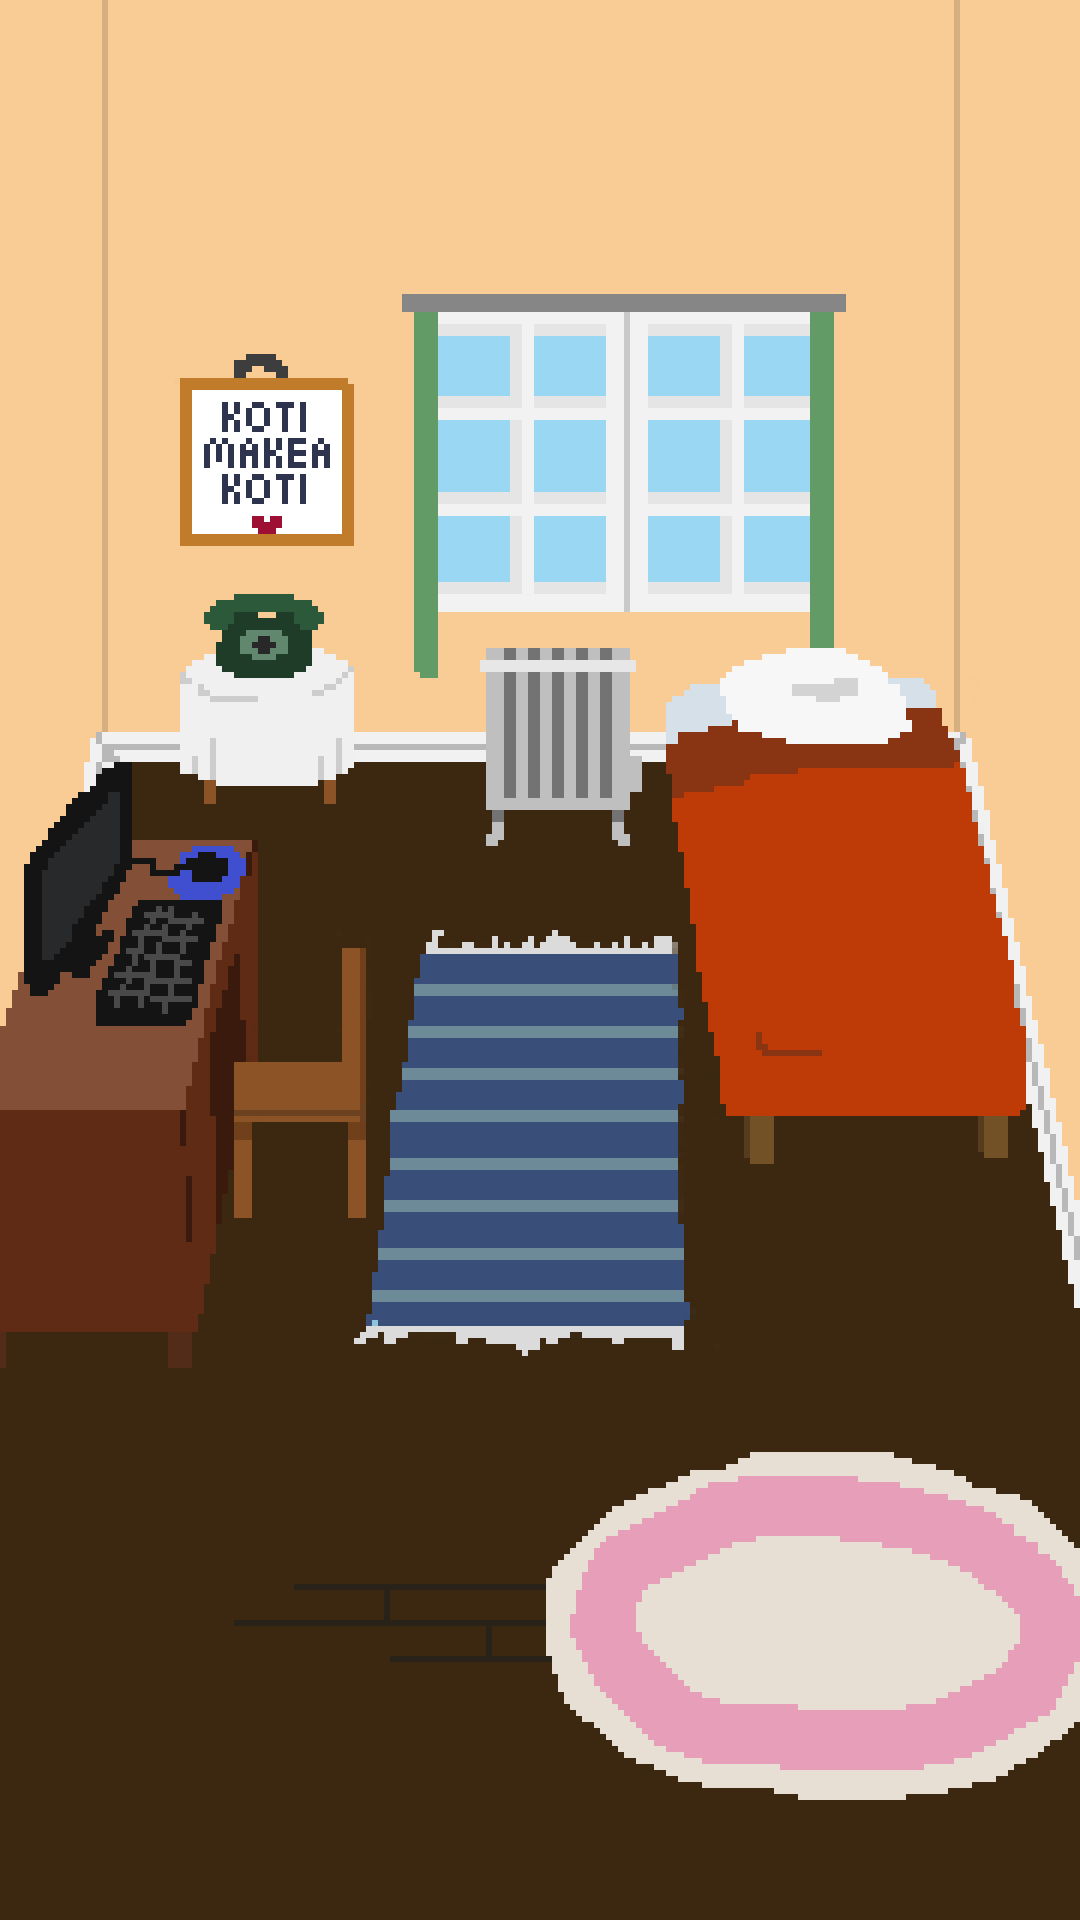
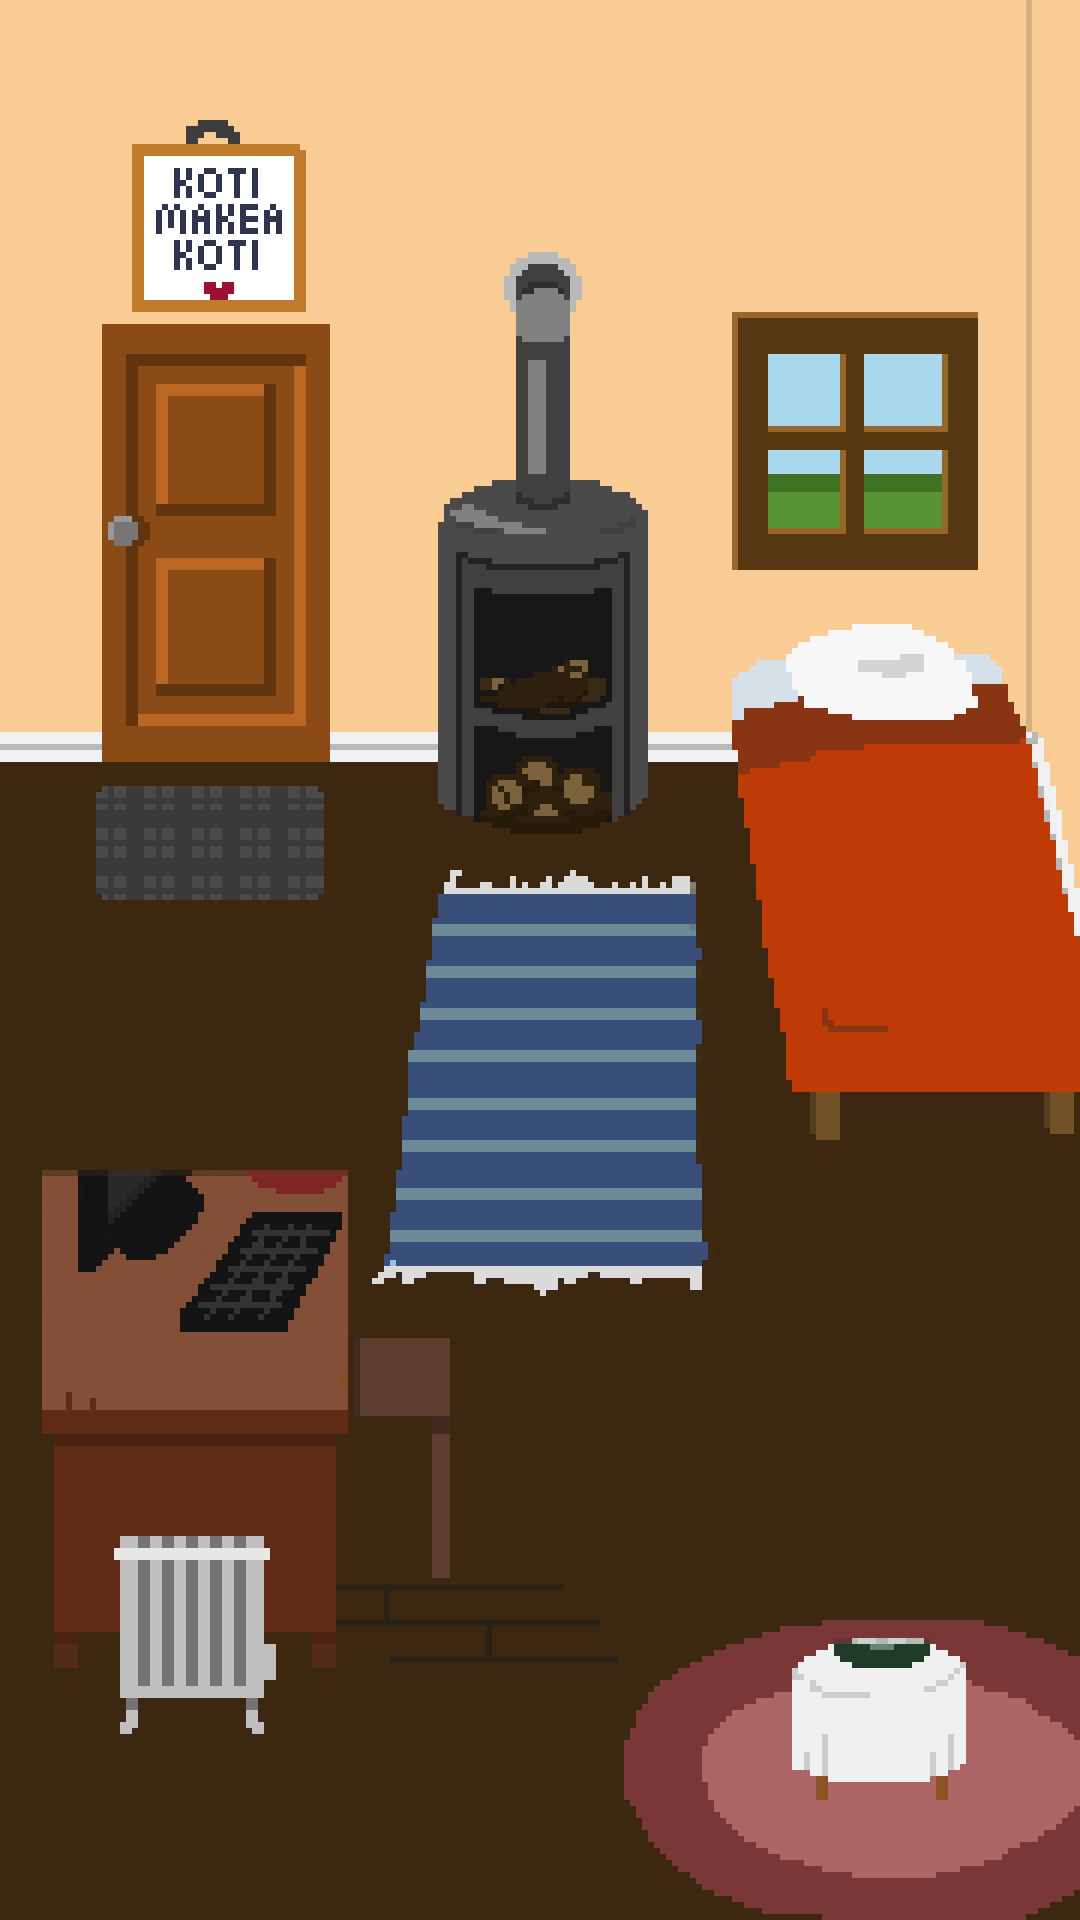
Uploaded updated map images updated Farm.tmx updated Home.tmx added garden.png small fixes to Player.java changed player size in HomeScreen.java

diff --git a/core/src/fi/tuni/tiko/Player.java b/core/src/fi/tuni/tiko/Player.java
@@ -372,7 +372,7 @@ public class Player extends Sprite{
                 if (targetX > ((getRX() + getWidth() / 2f) + getSpeed() * Gdx.graphics.getDeltaTime())) {
                     setLastX(getRX());
                     setRX(getRX() + getSpeed() * Gdx.graphics.getDeltaTime());
-                } else if (targetX < ((getRX() + getWidth() / 2) + getSpeed() * Gdx.graphics.getDeltaTime())) {
+                } else if (targetX <= ((getRX() + getWidth() / 2) + getSpeed() * Gdx.graphics.getDeltaTime())) {
                     setLastX(getRX());
                     setRX(getRX());
                 }
@@ -390,7 +390,7 @@ public class Player extends Sprite{
             if (targetY == (getRY() + getHeight() / 2f)) {
                 setLastY(getRY());
             } else if (targetY > (getRY() + getHeight() / 2f)&& up == true) {
-                if (targetY > (getRY() + getSpeed() * Gdx.graphics.getDeltaTime())) {
+                if (targetY > ((getRY() + getHeight() / 2f) + getSpeed() * Gdx.graphics.getDeltaTime())) {
                     setLastY(getRY());
                     setRY(getRY() + getSpeed() * Gdx.graphics.getDeltaTime());
                 } else if (targetY <= ((getRY() + getHeight() / 2f) + getSpeed() * Gdx.graphics.getDeltaTime())) {
@@ -401,7 +401,7 @@ public class Player extends Sprite{
                 if (targetY < ((getRY() + getHeight() / 2f) - getSpeed() * Gdx.graphics.getDeltaTime())) {
                     setLastY(getRY());
                     setRY(getRY() - getSpeed() * Gdx.graphics.getDeltaTime());
-                } else if (targetY > ((getRY() + getHeight() / 2f) - getSpeed() * Gdx.graphics.getDeltaTime())) {
+                } else if (targetY >= ((getRY() + getHeight() / 2f) - getSpeed() * Gdx.graphics.getDeltaTime())) {
                     setLastY(getRY());
                     setRY(getRY());
                 }

diff --git a/core/src/fi/tuni/tiko/HomeScreen.java b/core/src/fi/tuni/tiko/HomeScreen.java
@@ -28,7 +28,7 @@ public class HomeScreen extends Location implements Screen {
         this.camera = camera;
 
         player = new Player();
-        player.player(100f);
+        player.player(60f);
         player.setRX(4);
         player.setRY(4);
         player.setTargetX(player.getRX());
